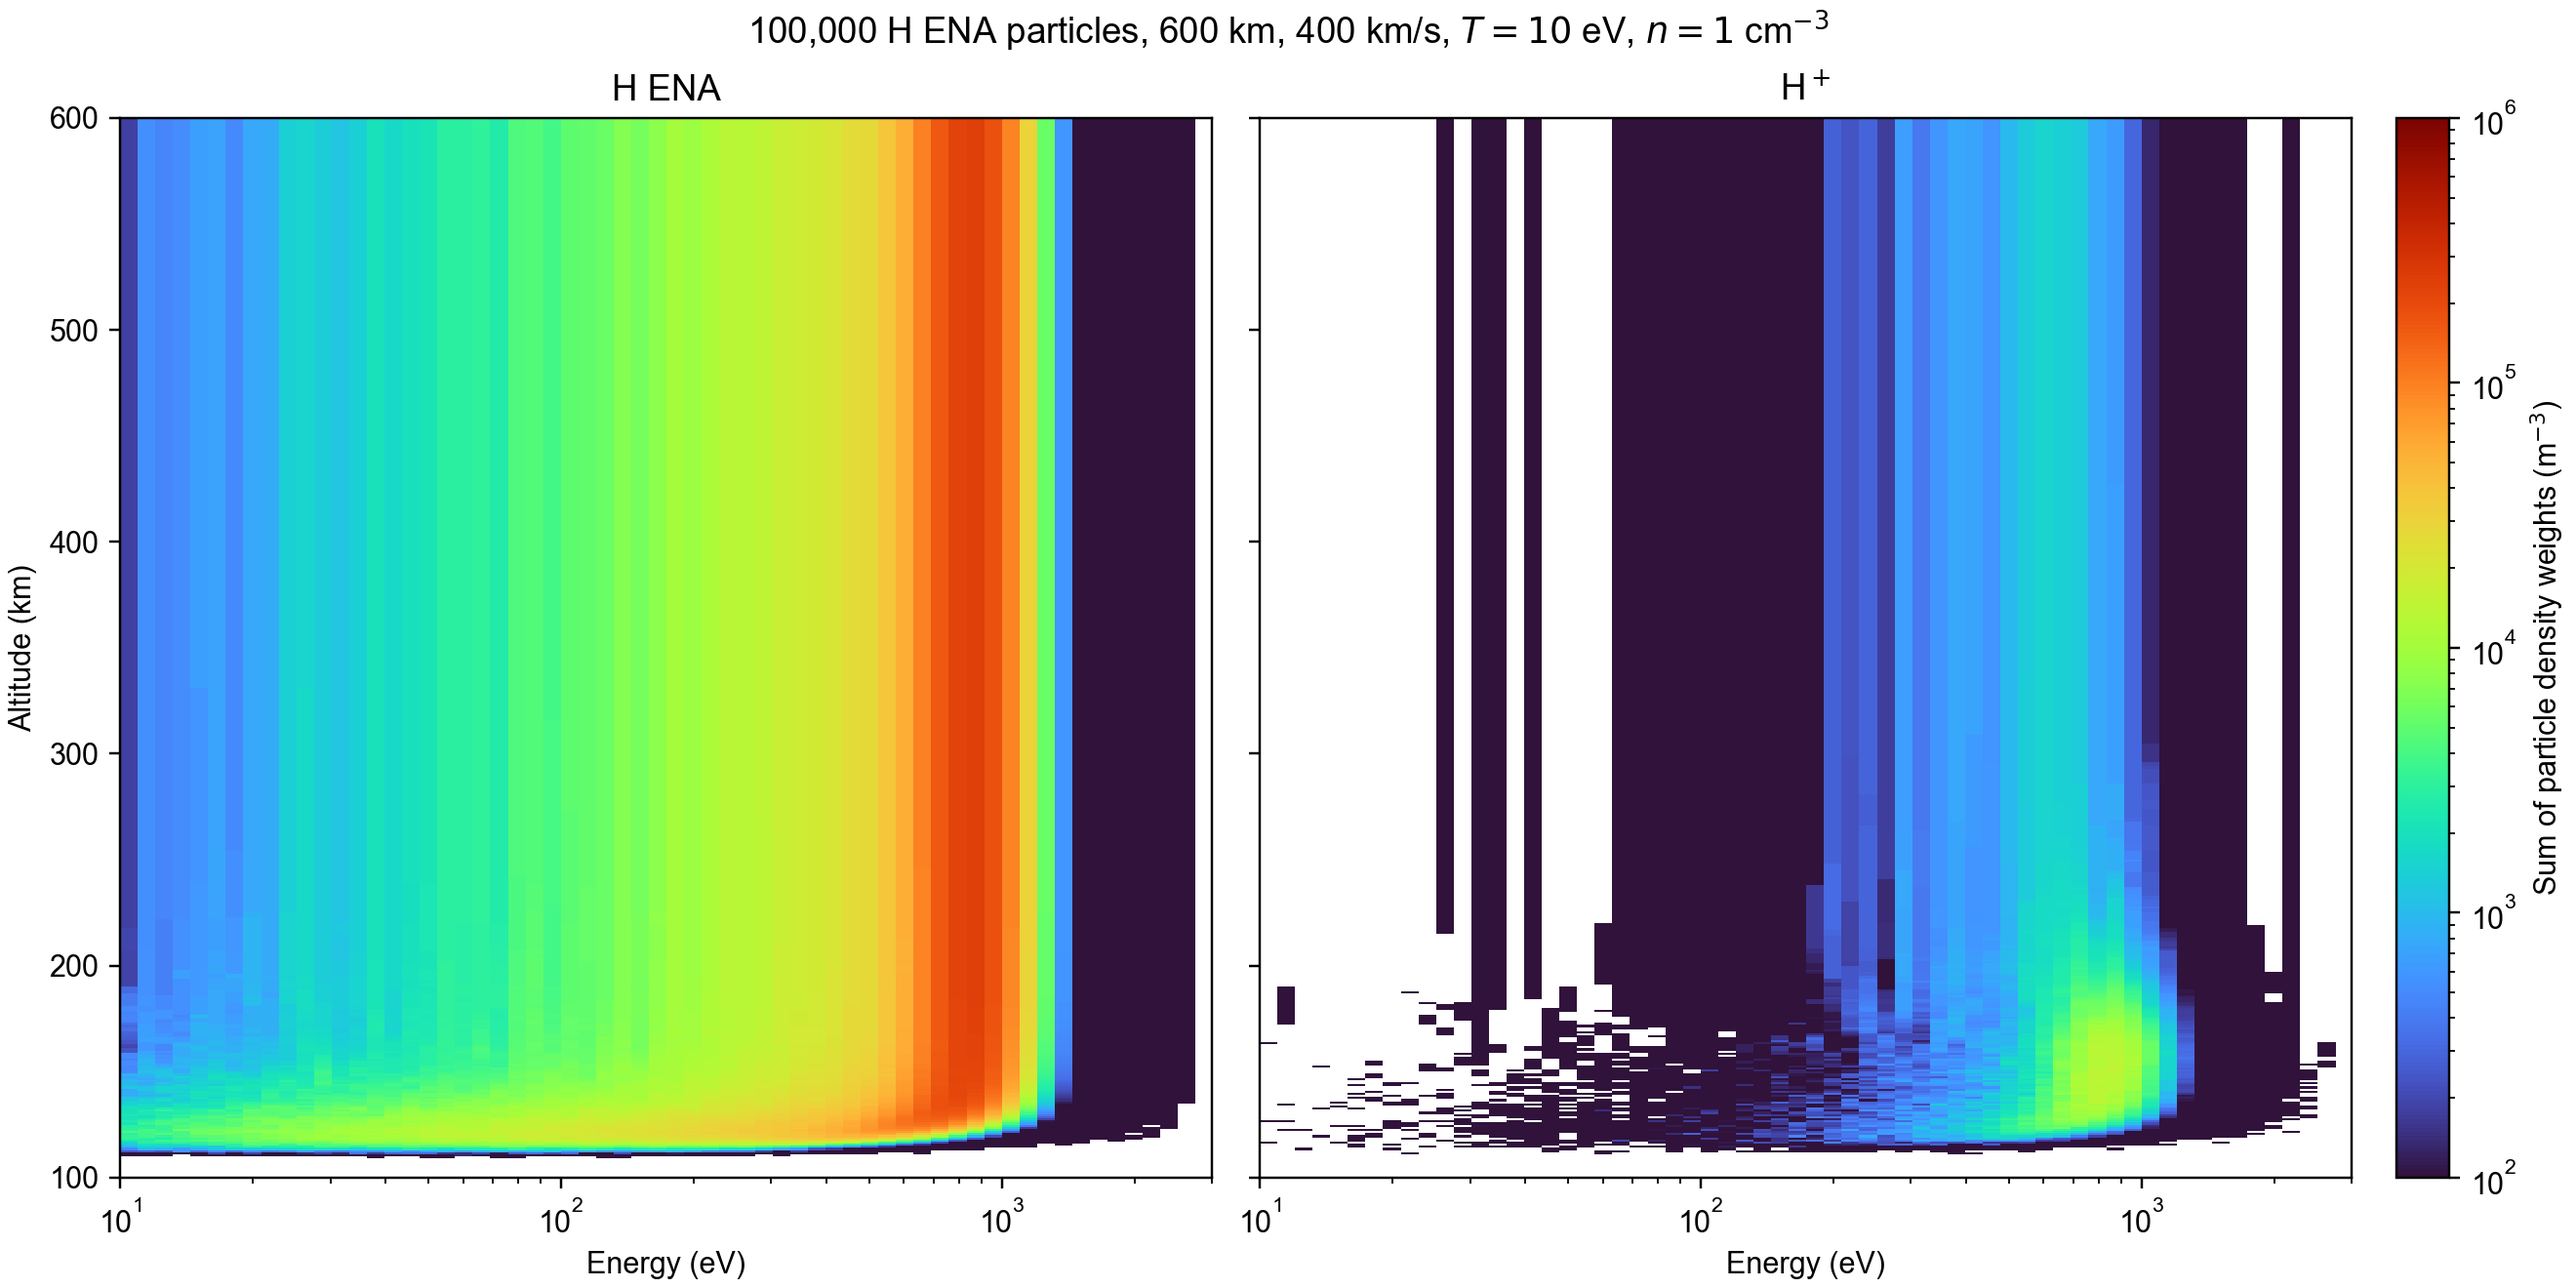
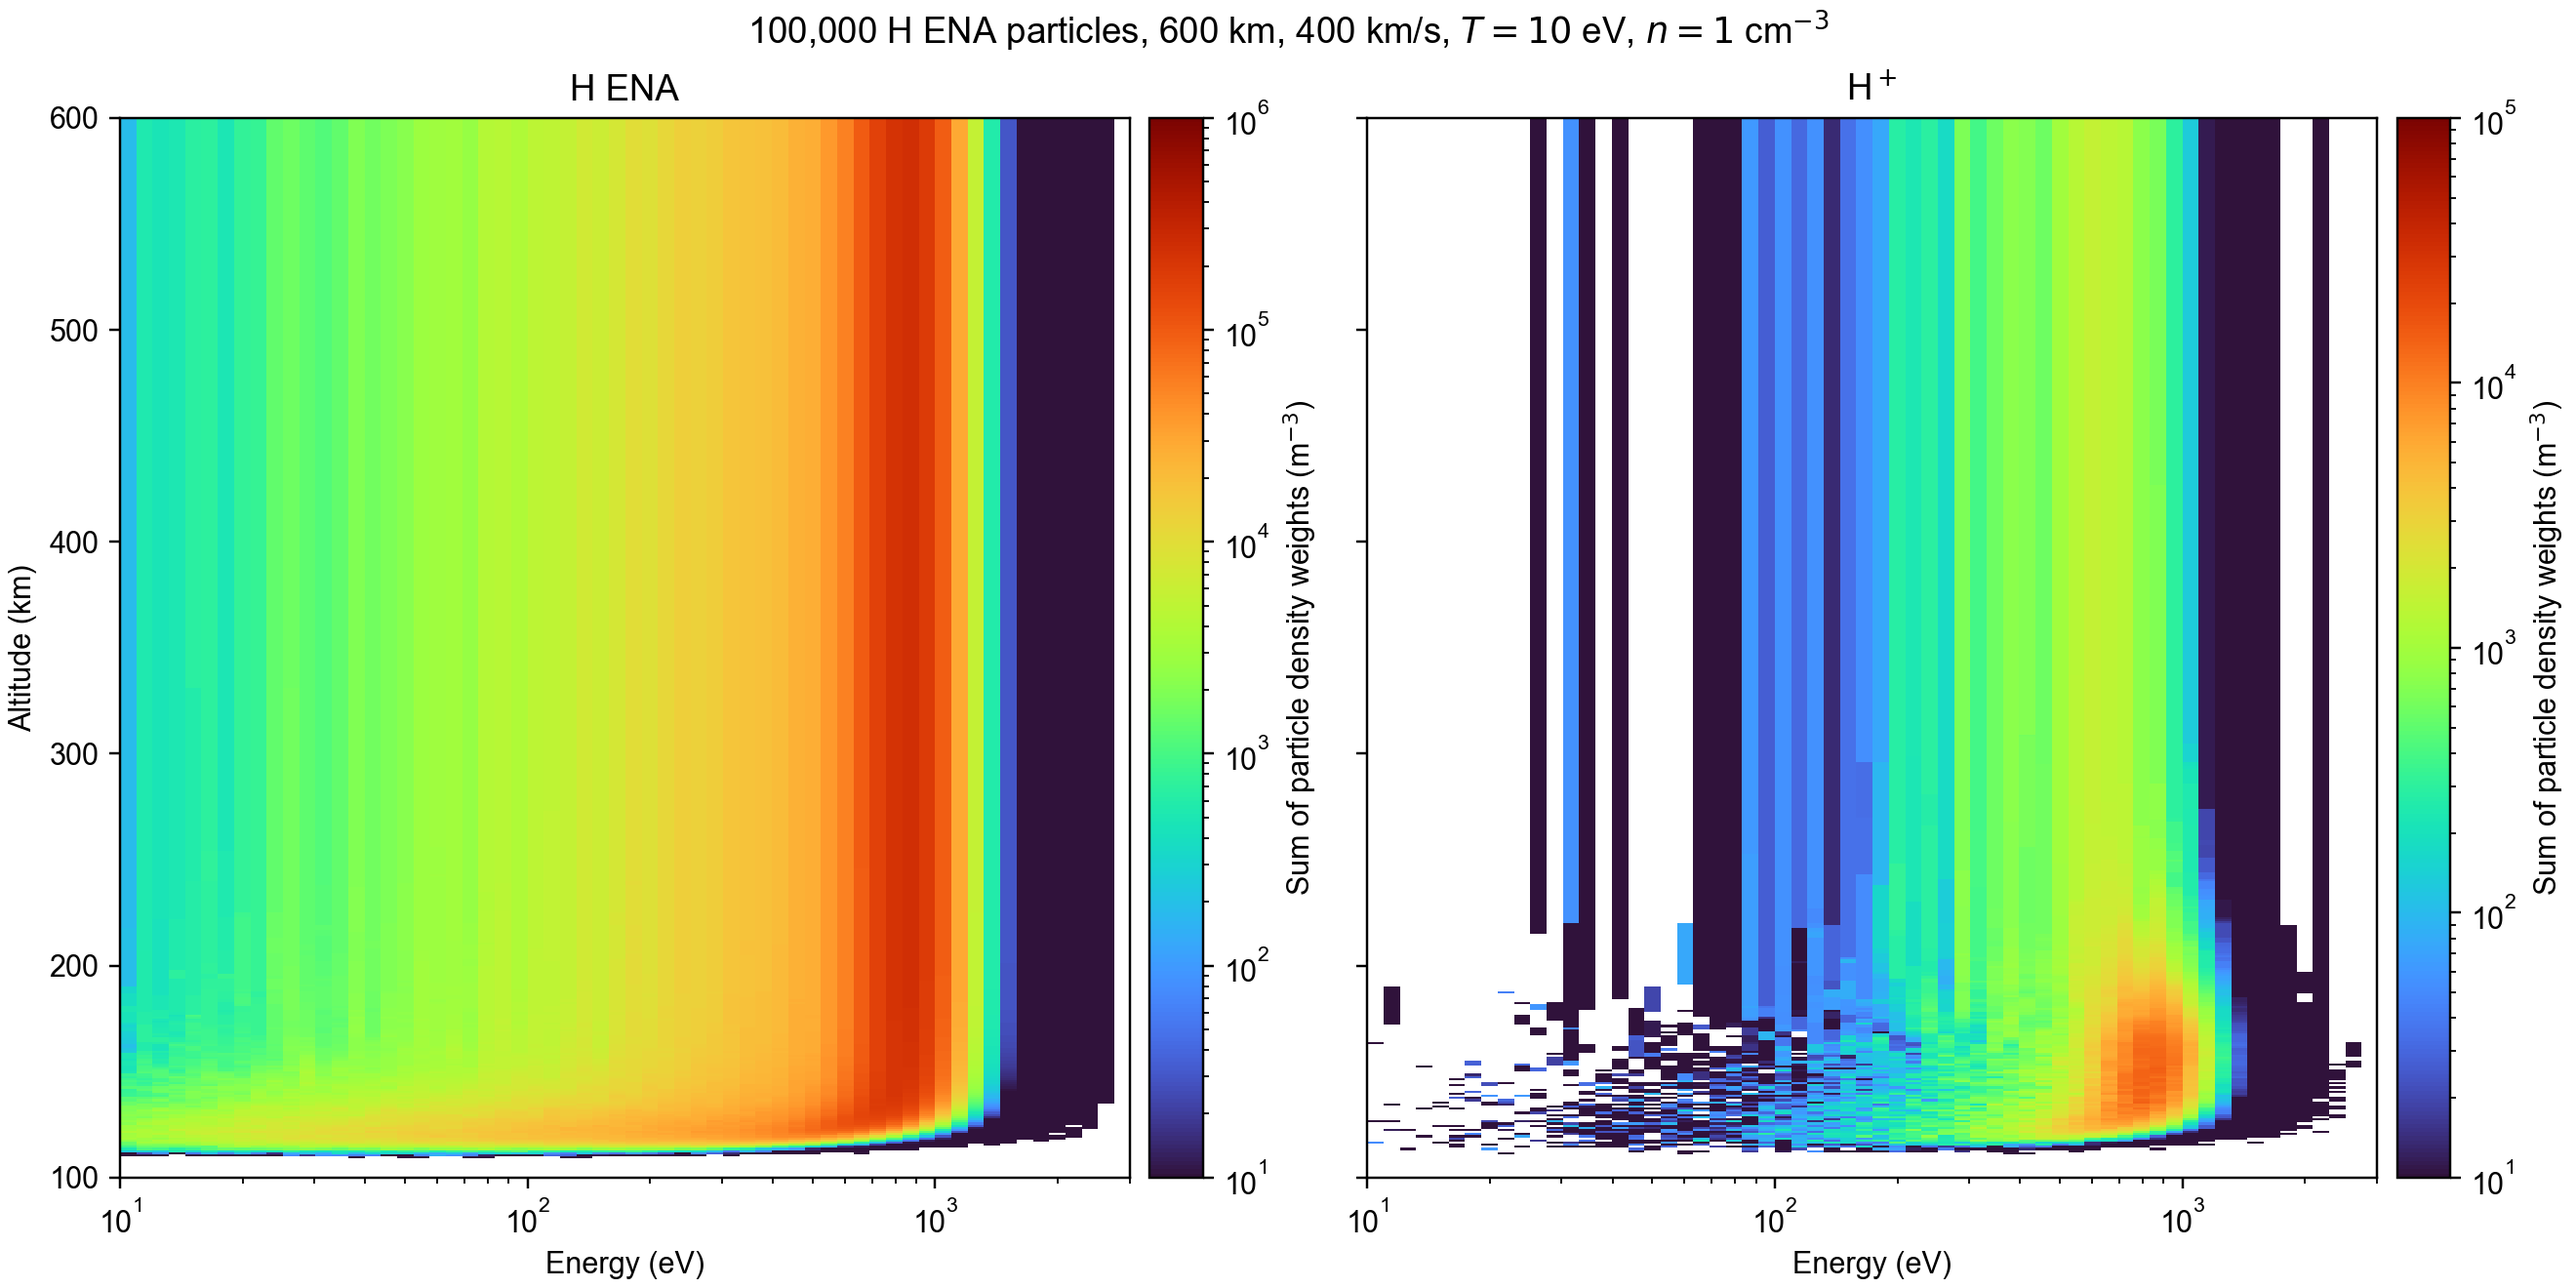
Use separate color limits for H ENA and H plus

diff --git a/examples/plot_h_ena_100000_monte_carlo.py b/examples/plot_h_ena_100000_monte_carlo.py
@@ -37,14 +37,6 @@ def main() -> None:
     )
     parser.add_argument("mat_file", type=Path)
     parser.add_argument("--output", type=Path, default=None)
-    parser.add_argument(
-        "--color-min", type=float, default=1.0e2,
-        help="Lower logarithmic color limit in m^-3.",
-    )
-    parser.add_argument(
-        "--color-max", type=float, default=None,
-        help="Upper logarithmic color limit in m^-3. Default: source density.",
-    )
     args = parser.parse_args()
 
     # The shared reader supports both ordinary MAT files and MAT v7.3/HDF5.
@@ -73,19 +65,21 @@ def main() -> None:
     # floor.
     if not np.any(density_weight_sum > 0):
         raise ValueError("The MAT file contains no positive weighted bins.")
-    source_density = float(one_dimensional(data, "source_number_density_m3"))
-    color_max = args.color_max or source_density
-    if args.color_min <= 0 or color_max <= args.color_min:
-        raise ValueError("Color limits must satisfy 0 < color-min < color-max.")
-    color_norm = LogNorm(vmin=args.color_min, vmax=color_max, clip=True)
+    # Use separate physical display ranges because the H+ population is much
+    # smaller than the initially injected neutral H ENA population.
+    color_norms = (
+        LogNorm(vmin=1.0e1, vmax=1.0e6, clip=True),
+        LogNorm(vmin=1.0e1, vmax=1.0e5, clip=True),
+    )
 
     fig, axes = plt.subplots(
         1, 2, figsize=(12, 6), sharex=True, sharey=True,
         constrained_layout=True,
     )
     species_names = ("H ENA", r"H$^+$")
-    image = None
-    for charge_index, (axis, species) in enumerate(zip(axes, species_names)):
+    for charge_index, (axis, species, color_norm) in enumerate(
+        zip(axes, species_names, color_norms)
+    ):
         values = np.ma.masked_less_equal(
             density_weight_sum[:, :, charge_index], 0
         )
@@ -103,10 +97,10 @@ def main() -> None:
         axis.set_xlim(10, 3_000)
         axis.set_ylim(100, 600)
         axis.grid(False)
+        colorbar = fig.colorbar(image, ax=axis, pad=0.02)
+        colorbar.set_label(r"Sum of particle density weights (m$^{-3}$)")
 
     axes[0].set_ylabel("Altitude (km)")
-    colorbar = fig.colorbar(image, ax=axes, pad=0.02)
-    colorbar.set_label(r"Sum of particle density weights (m$^{-3}$)")
     fig.suptitle(
         "100,000 H ENA particles, 600 km, 400 km/s, "
         r"$T=10$ eV, $n=1$ cm$^{-3}$"
